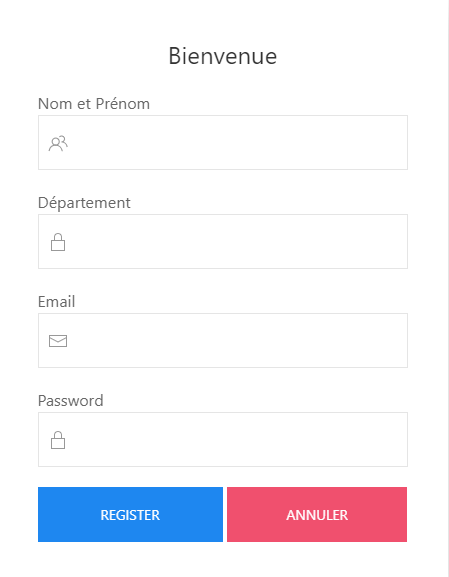
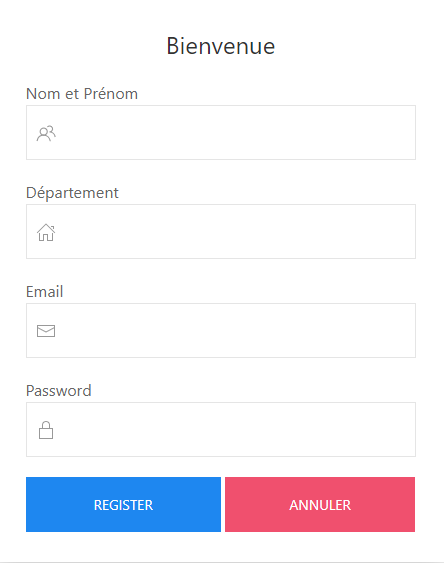
Hamza | Ajouter Etudiant Interface

diff --git a/gestionairetudiant/src/gestionairetudiant/AjouterEtud.java b/gestionairetudiant/src/gestionairetudiant/AjouterEtud.java
@@ -1,0 +1,79 @@
+/*
+ * To change this license header, choose License Headers in Project Properties.
+ * To change this template file, choose Tools | Templates
+ * and open the template in the editor.
+ */
+package gestionairetudiant;
+
+/**
+ *
+ * @author Elias
+ */
+public class AjouterEtud extends javax.swing.JFrame {
+
+    /**
+     * Creates new form AjouterEtud
+     */
+    public AjouterEtud() {
+        initComponents();
+    }
+
+    /**
+     * This method is called from within the constructor to initialize the form.
+     * WARNING: Do NOT modify this code. The content of this method is always
+     * regenerated by the Form Editor.
+     */
+    @SuppressWarnings("unchecked")
+    // <editor-fold defaultstate="collapsed" desc="Generated Code">//GEN-BEGIN:initComponents
+    private void initComponents() {
+
+        bgA = new javax.swing.JLabel();
+
+        setDefaultCloseOperation(javax.swing.WindowConstants.EXIT_ON_CLOSE);
+        getContentPane().setLayout(new org.netbeans.lib.awtextra.AbsoluteLayout());
+
+        bgA.setIcon(new javax.swing.ImageIcon(getClass().getResource("/img/AjouterEtudBg.png"))); // NOI18N
+        getContentPane().add(bgA, new org.netbeans.lib.awtextra.AbsoluteConstraints(0, 0, -1, -1));
+
+        pack();
+    }// </editor-fold>//GEN-END:initComponents
+
+    /**
+     * @param args the command line arguments
+     */
+    public static void main(String args[]) {
+        /* Set the Nimbus look and feel */
+        //<editor-fold defaultstate="collapsed" desc=" Look and feel setting code (optional) ">
+        /* If Nimbus (introduced in Java SE 6) is not available, stay with the default look and feel.
+         * For details see http://download.oracle.com/javase/tutorial/uiswing/lookandfeel/plaf.html 
+         */
+        try {
+            for (javax.swing.UIManager.LookAndFeelInfo info : javax.swing.UIManager.getInstalledLookAndFeels()) {
+                if ("Nimbus".equals(info.getName())) {
+                    javax.swing.UIManager.setLookAndFeel(info.getClassName());
+                    break;
+                }
+            }
+        } catch (ClassNotFoundException ex) {
+            java.util.logging.Logger.getLogger(AjouterEtud.class.getName()).log(java.util.logging.Level.SEVERE, null, ex);
+        } catch (InstantiationException ex) {
+            java.util.logging.Logger.getLogger(AjouterEtud.class.getName()).log(java.util.logging.Level.SEVERE, null, ex);
+        } catch (IllegalAccessException ex) {
+            java.util.logging.Logger.getLogger(AjouterEtud.class.getName()).log(java.util.logging.Level.SEVERE, null, ex);
+        } catch (javax.swing.UnsupportedLookAndFeelException ex) {
+            java.util.logging.Logger.getLogger(AjouterEtud.class.getName()).log(java.util.logging.Level.SEVERE, null, ex);
+        }
+        //</editor-fold>
+
+        /* Create and display the form */
+        java.awt.EventQueue.invokeLater(new Runnable() {
+            public void run() {
+                new AjouterEtud().setVisible(true);
+            }
+        });
+    }
+
+    // Variables declaration - do not modify//GEN-BEGIN:variables
+    private javax.swing.JLabel bgA;
+    // End of variables declaration//GEN-END:variables
+}

diff --git a/gestionairetudiant/src/gestionairetudiant/Register.java b/gestionairetudiant/src/gestionairetudiant/Register.java
@@ -50,7 +50,7 @@ public class Register extends javax.swing.JFrame {
         Passwd.setBorder(javax.swing.BorderFactory.createEmptyBorder(1, 1, 1, 1));
         getContentPane().add(Passwd, new org.netbeans.lib.awtextra.AbsoluteConstraints(89, 410, 310, 40));
 
-        Register.setIcon(new javax.swing.ImageIcon(getClass().getResource("/gestionairetudiant/images/RegisterBn.png"))); // NOI18N
+        Register.setIcon(new javax.swing.ImageIcon(getClass().getResource("/img/RegisterBn.png"))); // NOI18N
         Register.setBorder(javax.swing.BorderFactory.createEmptyBorder(1, 1, 1, 1));
         Register.setMargin(new java.awt.Insets(0, 0, 0, 0));
         Register.addActionListener(new java.awt.event.ActionListener() {
@@ -58,9 +58,9 @@ public class Register extends javax.swing.JFrame {
                 RegisterActionPerformed(evt);
             }
         });
-        getContentPane().add(Register, new org.netbeans.lib.awtextra.AbsoluteConstraints(33, 470, 190, 60));
+        getContentPane().add(Register, new org.netbeans.lib.awtextra.AbsoluteConstraints(22, 470, 200, 60));
 
-        Annuler.setIcon(new javax.swing.ImageIcon(getClass().getResource("/gestionairetudiant/images/annul.png"))); // NOI18N
+        Annuler.setIcon(new javax.swing.ImageIcon(getClass().getResource("/img/annul.png"))); // NOI18N
         Annuler.setBorder(javax.swing.BorderFactory.createEmptyBorder(1, 1, 1, 1));
         Annuler.setMargin(new java.awt.Insets(0, 0, 0, 0));
         Annuler.addActionListener(new java.awt.event.ActionListener() {
@@ -68,9 +68,9 @@ public class Register extends javax.swing.JFrame {
                 AnnulerActionPerformed(evt);
             }
         });
-        getContentPane().add(Annuler, new org.netbeans.lib.awtextra.AbsoluteConstraints(227, 470, 180, 60));
+        getContentPane().add(Annuler, new org.netbeans.lib.awtextra.AbsoluteConstraints(225, 470, 190, 60));
 
-        Bg.setIcon(new javax.swing.ImageIcon(getClass().getResource("/gestionairetudiant/images/RegisterBg.png"))); // NOI18N
+        Bg.setIcon(new javax.swing.ImageIcon(getClass().getResource("/img/RegisterBg.png"))); // NOI18N
         getContentPane().add(Bg, new org.netbeans.lib.awtextra.AbsoluteConstraints(0, 0, 440, 550));
 
         pack();

diff --git a/gestionairetudiant/src/gestionairetudiant/Gestionairetudiant.java b/gestionairetudiant/src/gestionairetudiant/Gestionairetudiant.java
@@ -15,7 +15,7 @@ public class Gestionairetudiant {
      * @param args the command line arguments
      */
     public static void main(String[] args) {
-        // TODO code application logic here
+        // TODO code application logic herec
         Login log = new Login();
         log.setVisible(true);
     }
